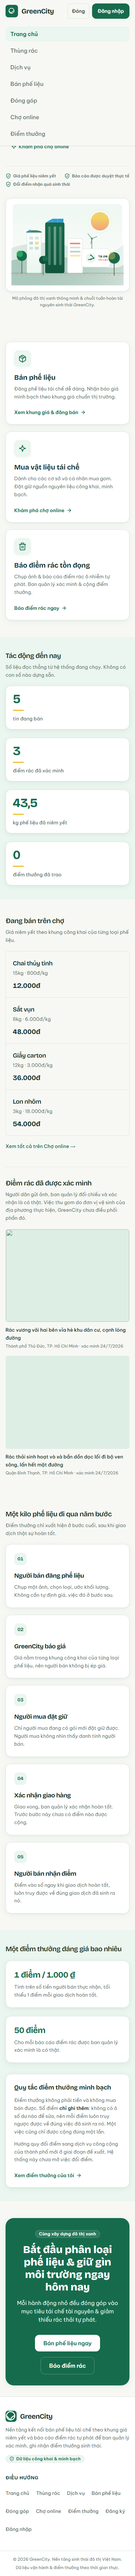
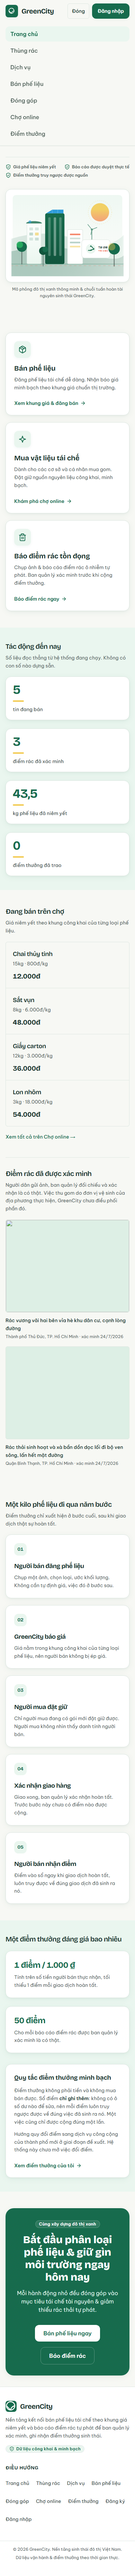
test(web): add anonymous marketplace login action test and update screenshots

Changed region(s): [[0.0308, 0.0312, 0.9538, 0.5301], [0.0308, 0.5613, 0.9231, 0.9667], [0.7077, 0.2183, 0.7385, 0.2495]]

diff --git a/apps/web/src/components/home-hero.tsx b/apps/web/src/components/home-hero.tsx
@@ -32,9 +32,9 @@ export function HomeHero() {
         </h1>
 
         <p className="mt-5 max-w-prose text-base leading-relaxed text-muted sm:text-lg">
-          GreenCity kết nối hai hoạt động bảo vệ môi trường: thu gom bán phế liệu theo giá
-          niêm yết minh bạch và báo cáo điểm rác tự phát để cộng đồng giải quyết. Mỗi đóng góp
-          đều được xác minh và quy đổi điểm thưởng.
+          GreenCity kết nối hai hoạt động bảo vệ môi trường: bán phế liệu theo giá
+          niêm yết minh bạch và báo cáo điểm rác tự phát để cộng đồng ghi nhận,
+          xác minh.
         </p>
 
         <div className="mt-8 flex min-w-0 flex-wrap items-center gap-3.5">
@@ -72,7 +72,7 @@ export function HomeHero() {
           </span>
           <span className="inline-flex items-center gap-1.5">
             <IconShieldCheck className="h-4 w-4 text-primary" />
-            Đổi điểm nhận quà sinh thái
+            Điểm thưởng truy ngược được nguồn
           </span>
         </div>
       </div>

diff --git a/apps/web/src/app/page.tsx b/apps/web/src/app/page.tsx
@@ -9,7 +9,7 @@ import { Section } from "@/components/section";
 /**
  * Public homepage — Modern Eco Marketplace design.
  * Clear value proposition, core user journeys, live statistics,
- * transparent 5-step recycling loop, and points calculation logic.
+ * transparent 5-step recycling loop, and documented point rules.
  */
 export default function HomePage() {
   return (
@@ -64,7 +64,7 @@ export default function HomePage() {
               </div>
               <h2 className="mt-4 font-display text-xl font-bold text-ink">Báo điểm rác tồn đọng</h2>
               <p className="mt-2 text-sm leading-relaxed text-muted">
-                Chụp ảnh & báo cáo điểm rác ô nhiễm tự phát. Ban quản lý xác minh & cộng điểm thưởng.
+                Chụp ảnh & báo cáo điểm rác ô nhiễm tự phát. Ban quản lý xác minh trước khi cộng điểm thưởng.
               </p>
             </div>
             <Link

diff --git a/apps/web/e2e/routes.spec.ts b/apps/web/e2e/routes.spec.ts
@@ -34,6 +34,18 @@ test.describe("Public routes", () => {
     assertCleanRuntime(issues, "not-found");
   });
 
+  test("anonymous marketplace shows login actions instead of a loading placeholder", async ({ page }) => {
+    await page.goto("/cho-online", { waitUntil: "networkidle" });
+    await expect(
+      page.getByRole("heading", { name: "Gói người mua" }),
+    ).toBeVisible();
+    await expect(
+      page.getByRole("link", { name: "Đăng nhập để mua gói" }),
+    ).toBeVisible();
+    await expect(
+      page.getByRole("link", { name: "Đăng nhập để đặt giữ" }).first(),
+    ).toBeVisible();
+  });
   test("shows a recoverable error when the response body stream fails", async ({ page }) => {
     await page.addInitScript(() => {
       const realFetch = window.fetch.bind(window);

diff --git a/apps/web/src/components/buyer-pass-panel.tsx b/apps/web/src/components/buyer-pass-panel.tsx
@@ -5,7 +5,7 @@ import { useCallback, useEffect, useState } from "react";
 import type { SubscriptionState } from "@greencity/shared";
 import { useAuth } from "@/components/auth-provider";
 import { EcoBadge } from "@/components/eco-badge";
-import { IconLeaf, IconShieldCheck, IconSparkles } from "@/components/eco-icons";
+import { IconShieldCheck, IconSparkles } from "@/components/eco-icons";
 import {
   checkAuthExpiry,
   createSubscriptionPayment,

diff --git a/apps/web/src/components/eco-city-hero-illustration.tsx b/apps/web/src/components/eco-city-hero-illustration.tsx
@@ -44,7 +44,7 @@ export function EcoCityHeroIllustration(props: SVGProps<SVGSVGElement>) {
 
       {/* Background ground & atmosphere */}
       <rect width="540" height="400" rx="16" fill="url(#skyGrad)" />
-      
+
       {/* Eco Sun / Clean Energy Aura */}
       <circle cx="430" cy="85" r="45" fill="url(#sunGrad)" opacity="0.85" />
       <circle cx="430" cy="85" r="58" stroke="#F2C94C" strokeWidth="1.5" strokeDasharray="4 6" opacity="0.5" />
